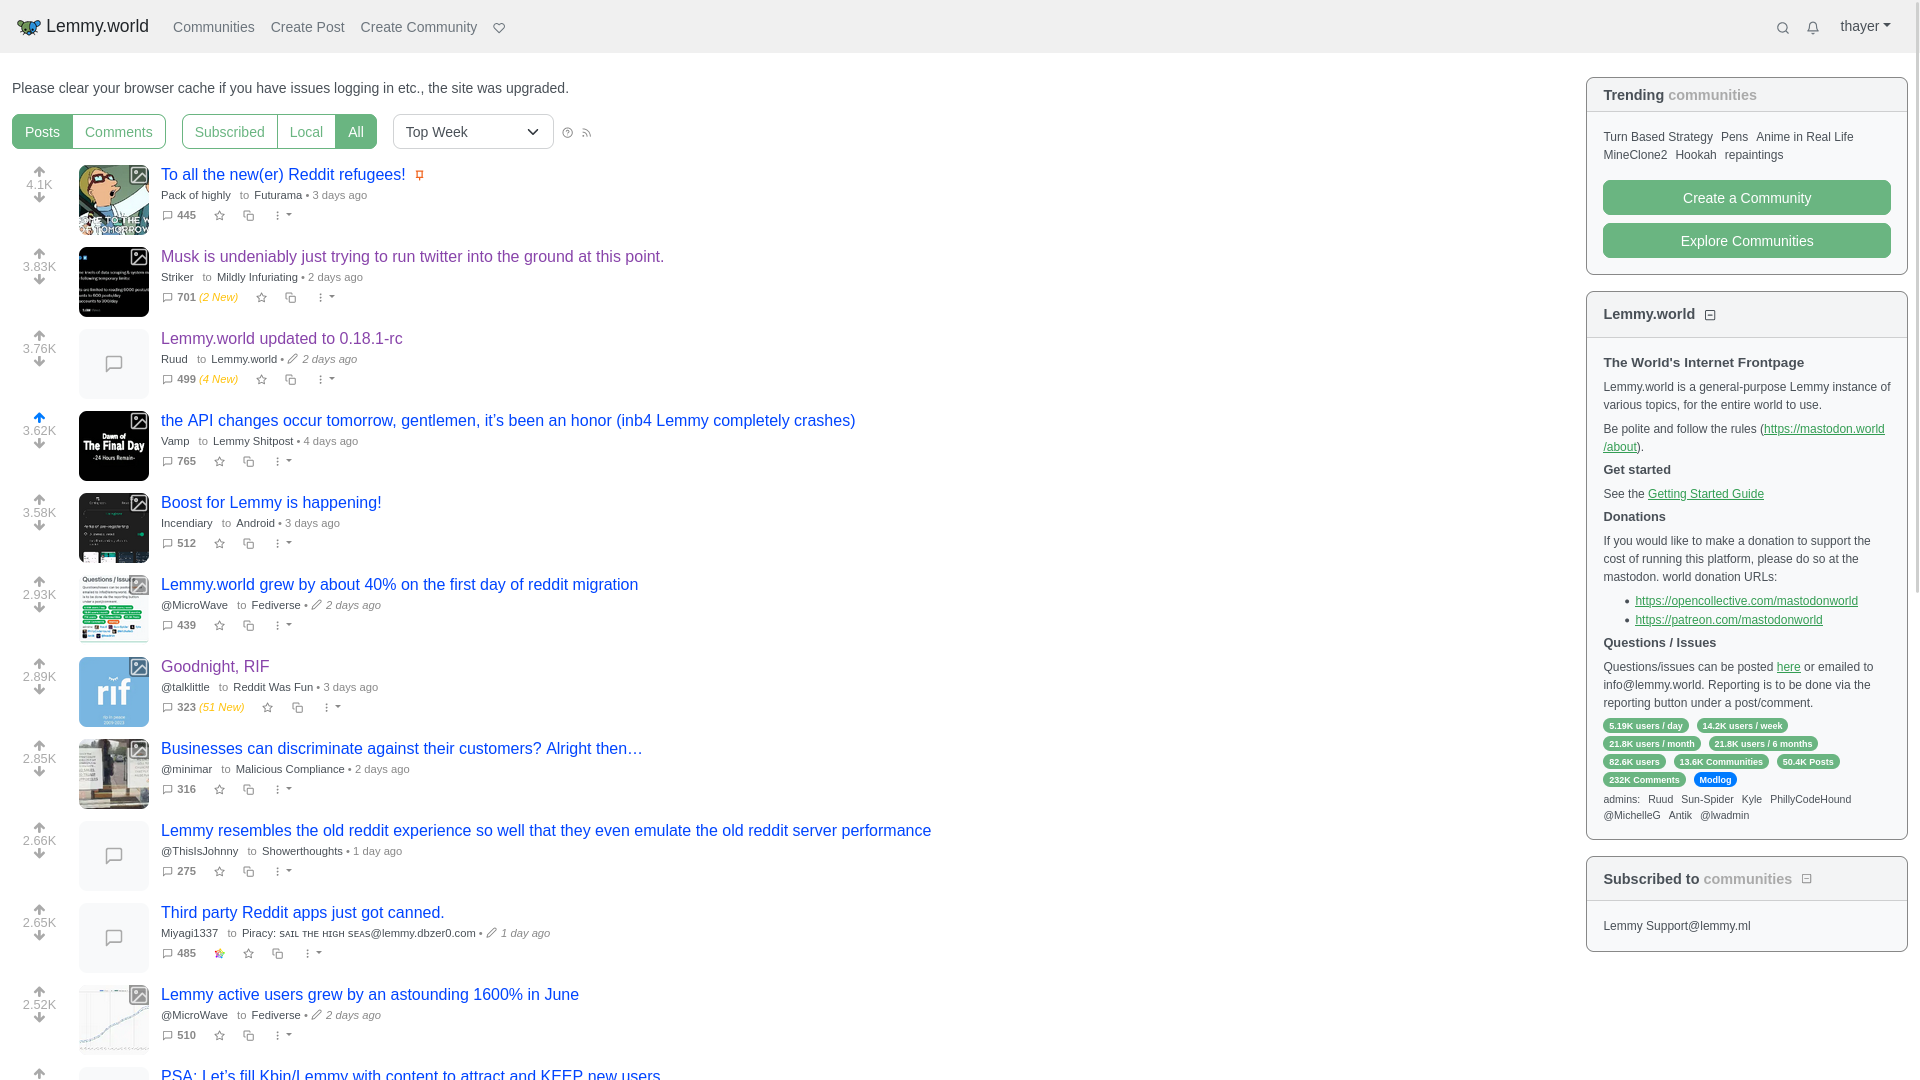
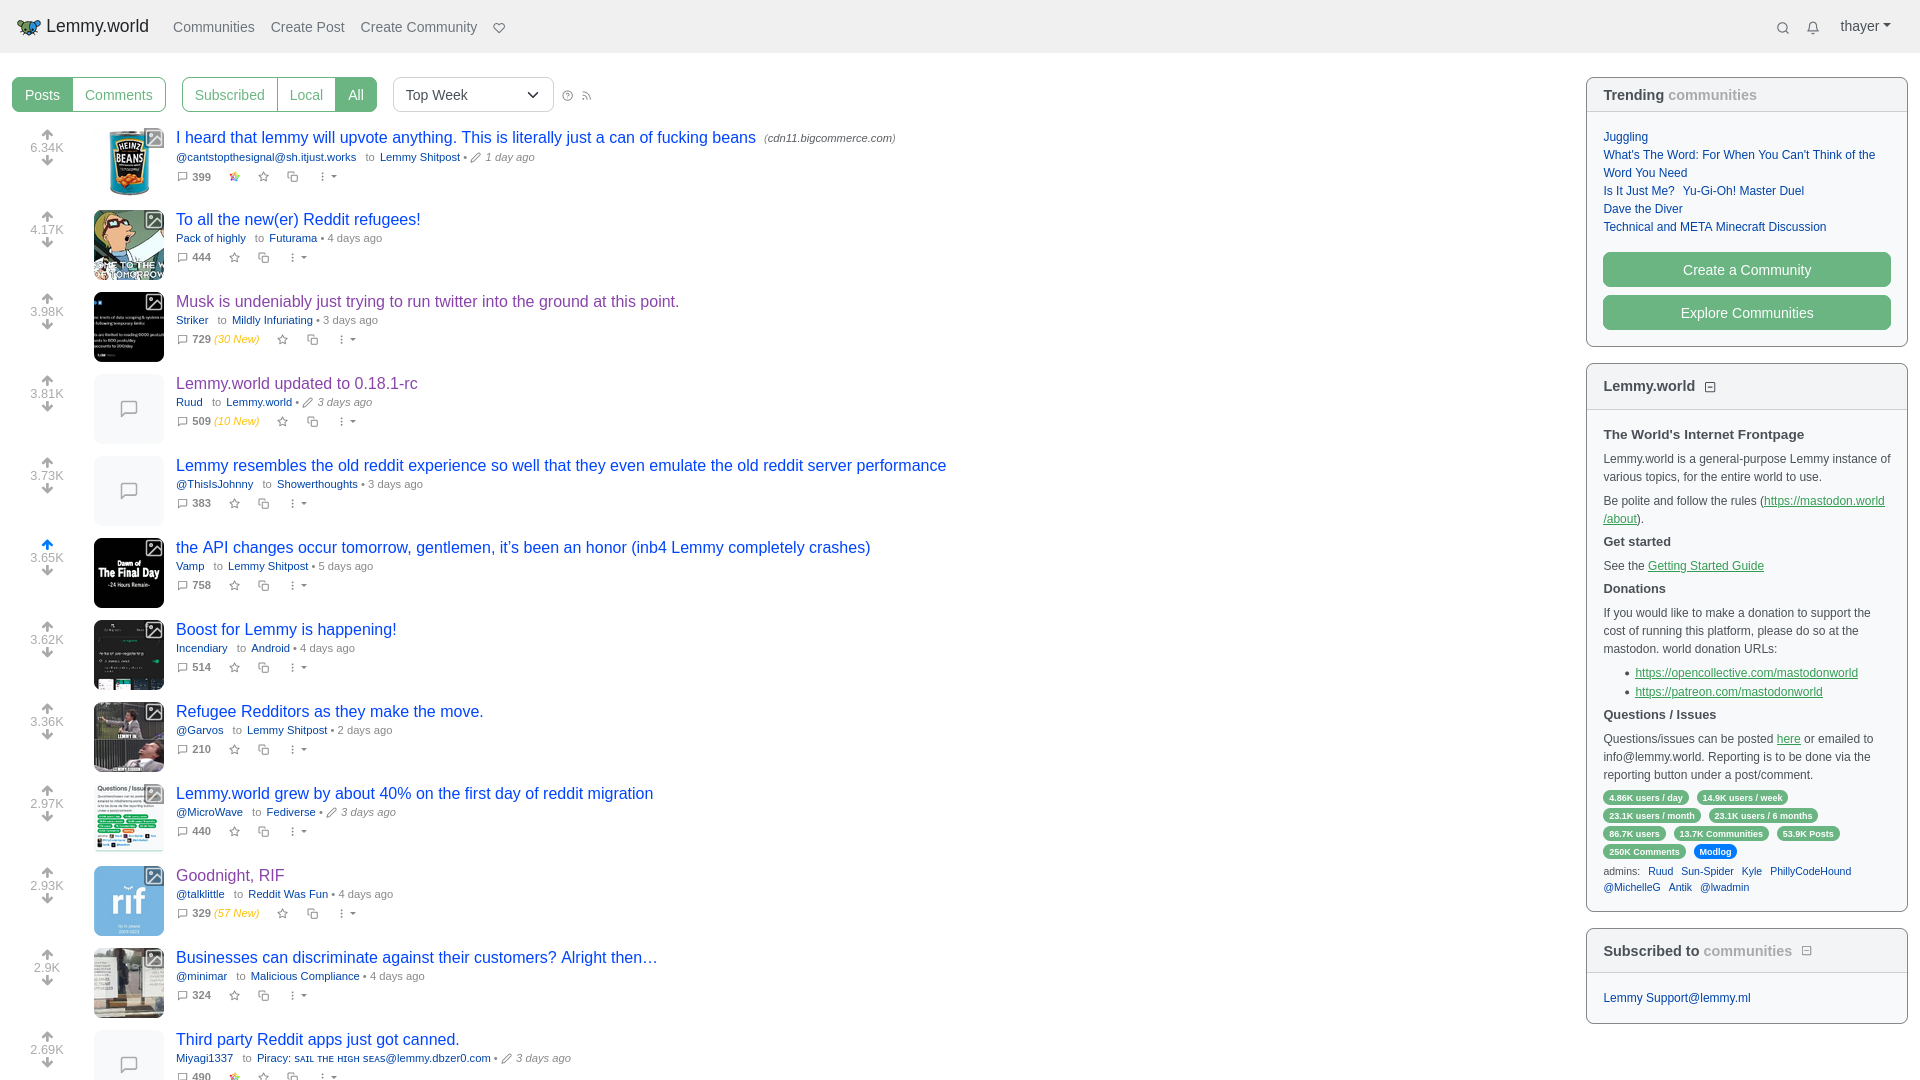
updated to support lemmy v0.18-0.18.1

diff --git a/snapshots/rediggit_lemmy_v0.18.1_20230703.css b/snapshots/rediggit_lemmy_v0.18.1_20230703.css
@@ -1,19 +1,16 @@
 /* ==UserStyle==
 @name         Rediggit for Lemmy
-@version      20230704.2256
+@version      20230703.1135
 @namespace    userstyles.world/user/thayer
-@description  A flexible, full-width theme for Lemmy v0.18.x, inspired by reddit, digg and hacker news. Additional screenshots and previous versions available at https://github.com/thayerw/lemmy-rediggit 
+@description  A flexible, full-width theme for Lemmy v0.18.1, inspired by reddit, digg and hacker news. Additional screenshots and previous versions available at https://github.com/thayerw/lemmy-rediggit 
 @author       thayer (@thayer@lemmy.ca)
 @license      Public domain
 ==/UserStyle== */
 
-@-moz-document domain("lemmy.ml"), domain("lemmy.world"), domain("beehaw.org"), domain("sh.itjust.works"), domain("lemmy.one"), domain("lemmy.ca"), domain("midwest.social"), domain("discuss.tchncs.de"), domain("lemmy.fmhy.ml"), domain("feddit.it"), domain("feddit.dk"), domain("infosec.pub"), domain("feddit.nl"), domain("lemm.ee"), domain("lemmy.cafe") {
+@-moz-document domain("lemmy.ml"), domain("lemmy.world"), domain("beehaw.org"), domain("lemmy.ca"), domain("lemmy.sdf.org"), domain("lemm.ee"), domain("lemmy.cafe") {
 
   /* import lemmy's default lightly theme first */
   @import "/css/themes/lightly.css";
-
-  /* remove rounded corners */
-  /* .rounded, .card, .alert, .badge, .btn { border-radius: 0 !important; } */
 
   :root {
     --font-sans: Arial,system-ui,-apple-system,"Segoe UI",Roboto,"Helvetica Neue","Noto Sans","Liberation Sans",sans-serif,"Apple Color Emoji","Segoe UI Emoji","Segoe UI Symbol","Noto Color Emoji";
@@ -58,7 +55,7 @@
   a.person-listing,
   a.community-listing,
   a.community-link {
-    color: var(--bs-link-color) !important;
+    color: var(--bs-gray-700) !important;
     font-weight: normal;
   }
 
@@ -215,10 +212,7 @@
   .post-title strong { font-weight: normal !important; }
 
   /* adjust the whitespace between post title, metadata, and icon bar */
-  .post-container .col div.mb-1 { line-height: 1.75; }
-
-  /* hide post preview whitespace - for v0.18 only */
-  .post-container .col-12 .mt-2 { display: none !important; }
+  .post-container .col div.mb-1 { line-height: 2; }
 
   /* post metadata and other muted content */
   .text-muted,
@@ -426,15 +420,8 @@
 
   /* vote box column */
   .post-listing .vote-bar {
-    width: 70px !important;
-    max-width: 70px!important;
-  }
-
-    /* thumbnail column  - for v0.18 only */
-  .post-listing .col-sm-2 {
-    width: 90px !important;
-    max-width: 90px !important;
-    margin-right: 0px;
+    width: 55px !important;
+    max-width: 55px!important;
   }
 
   /* content column */
@@ -450,4 +437,3 @@
     font-size: 0.75rem !important;
   }
 }
-
